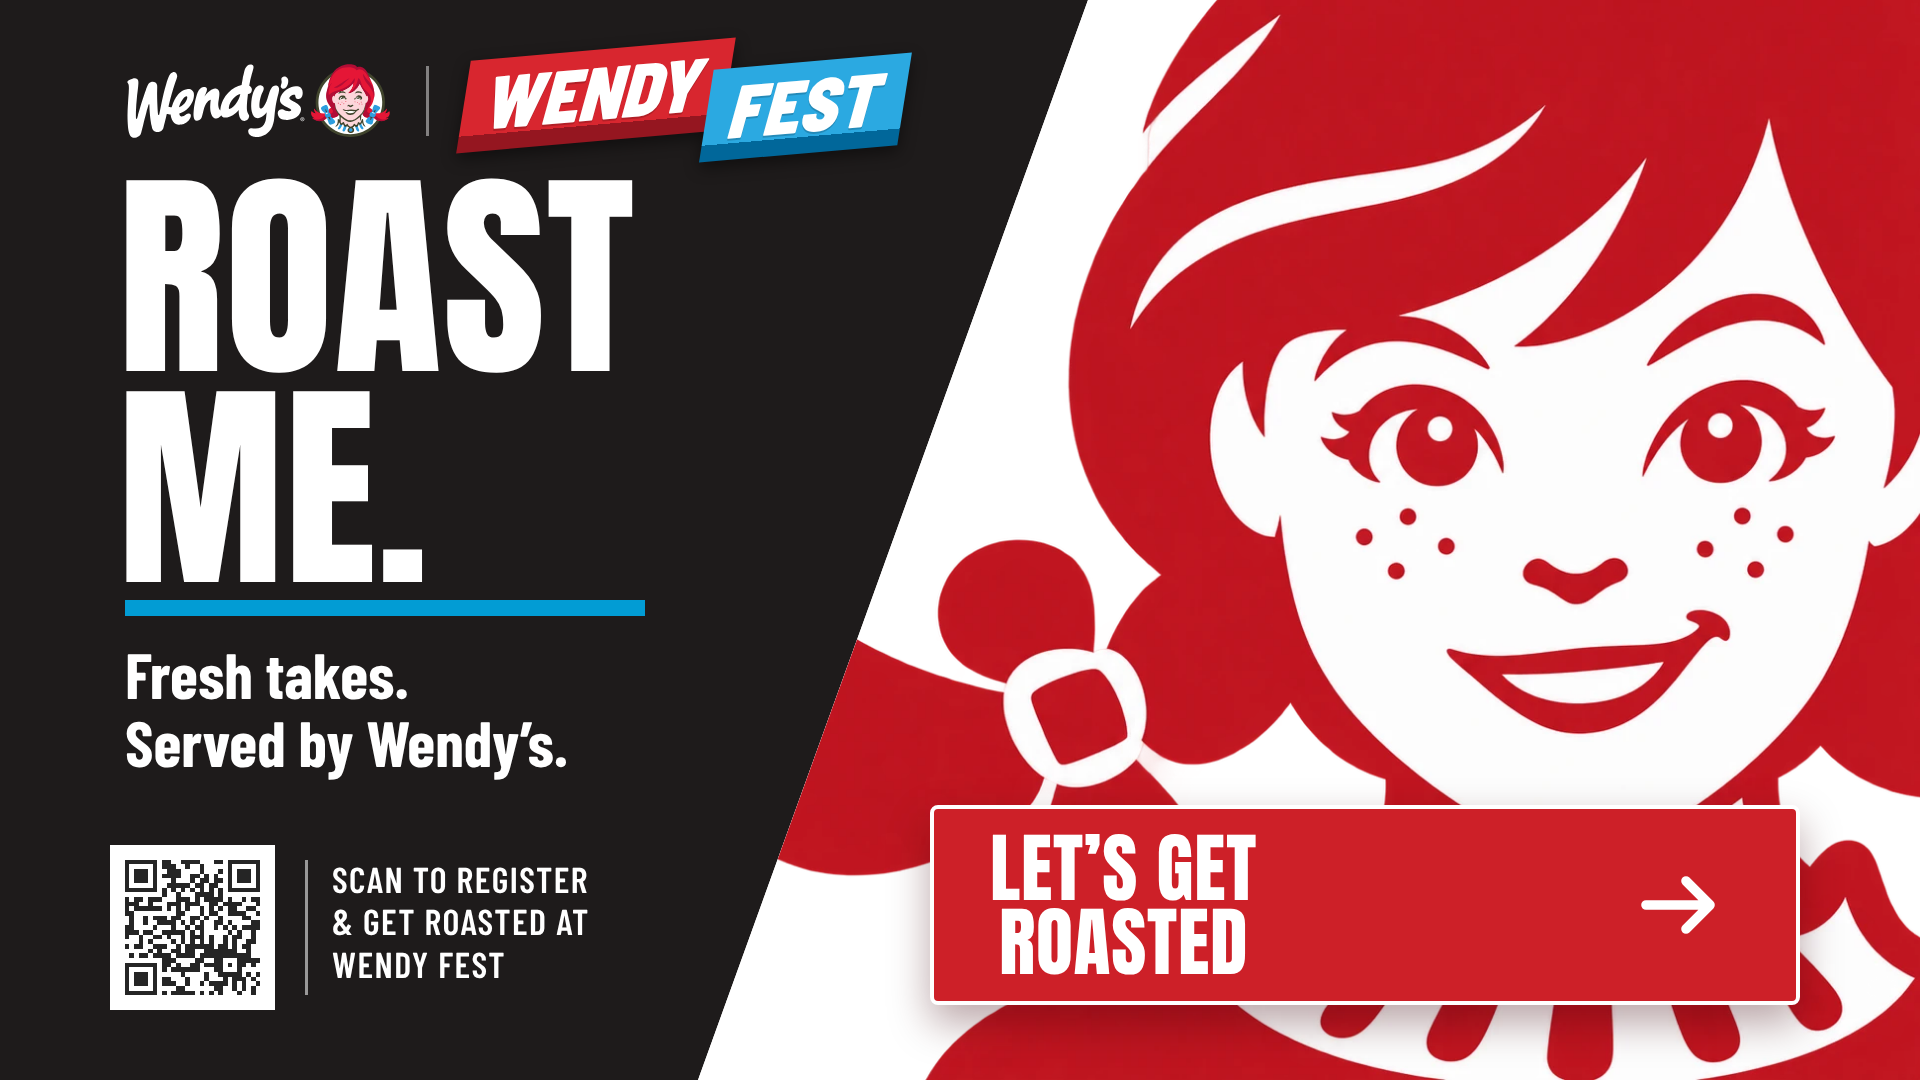
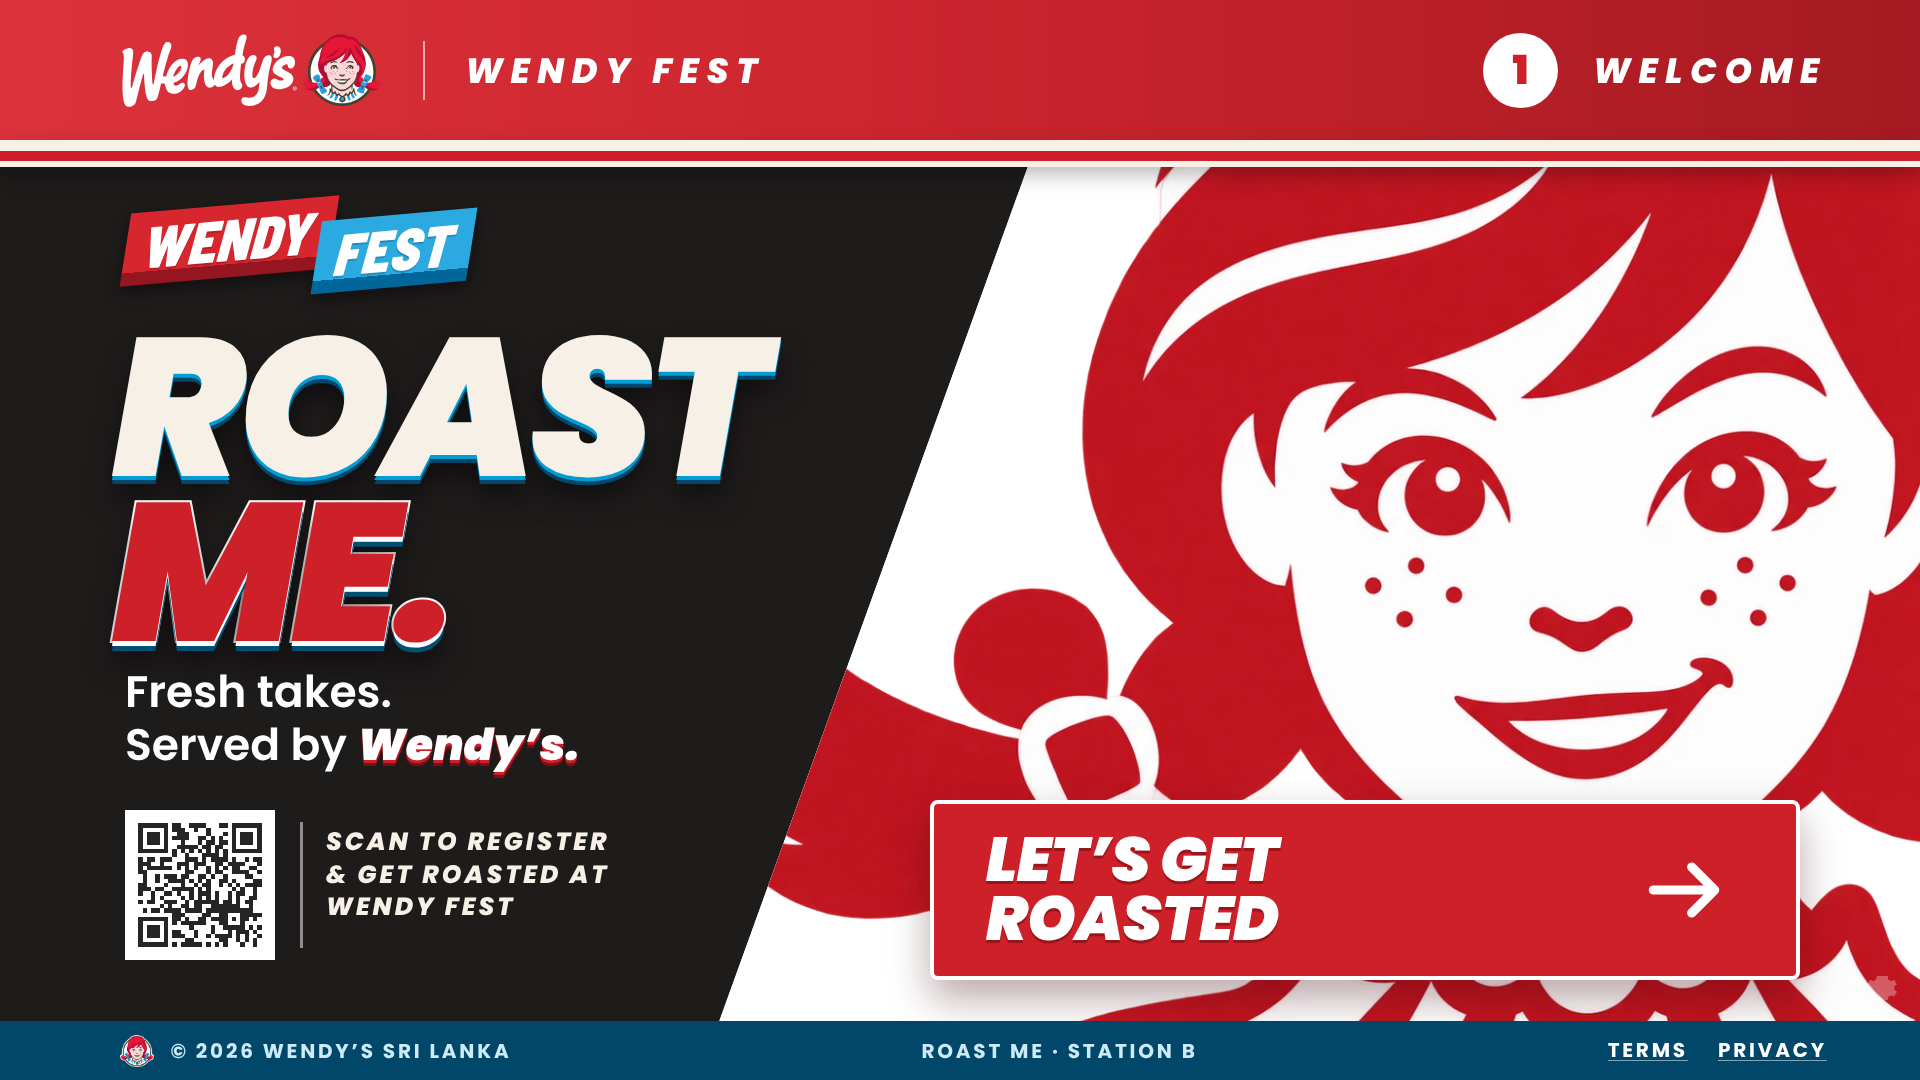
Roast Me welcome: Scream & Win header, stripe and footer; ROAST ME. in Scream & Win heavy italic 3D lettering; lockup moved into content
Claude-Session: https://claude.ai/code/session_015MHPvZ3kkn8jw5YatKY7r4

diff --git a/public/kiosk/roast.html b/public/kiosk/roast.html
@@ -23,43 +23,45 @@
   .rtabs button.on { background: var(--red); opacity: 1; }
   .cooking-line { font-size: 3.2vmin; font-weight: 600; min-height: 5vmin; }
   .ghost-wendy { position: absolute; right: -4vmin; bottom: -10vmin; width: 62vmin; opacity: .06; pointer-events: none; }
-  /* ===== Welcome screen (approved Roast Wall design, 1920x1080 canvas) ===== */
+  /* ===== Welcome screen: Roast Wall layout + Scream & Win header, footer and lettering (1920x1080 canvas) ===== */
   :root { --p:min(calc(100vw / 1920), calc(100vh / 1080)); }
-
-#s-idle { --red:#CD2028; --ink:#1E1B1B; --blue:#029CD4; }
-#s-idle.on { display:grid; place-items:center; padding:0; background:#151313; z-index:3; }
-#s-idle .s { flex:none; }
-#s-idle .s { position:relative; width:calc(1920 * var(--p)); height:calc(1080 * var(--p)); overflow:hidden; background:var(--ink); color:#fff; }
-#s-idle .s > * { position:absolute; }
-#s-idle .panel { inset:0; background:linear-gradient(170deg, #D92530 0%, #CD2028 50%, #B81C24 100%); clip-path:polygon(calc(1130 * var(--p)) 0, calc(1920 * var(--p)) 0, calc(1920 * var(--p)) calc(1080 * var(--p)), calc(740 * var(--p)) calc(1080 * var(--p))); }
-#s-idle .band { inset:0; background:#fff; clip-path:polygon(calc(1088 * var(--p)) 0, calc(1130 * var(--p)) 0, calc(740 * var(--p)) calc(1080 * var(--p)), calc(698 * var(--p)) calc(1080 * var(--p))); }
-#s-idle .art { inset:0; background:#FFFFFF; clip-path:polygon(calc(1088 * var(--p)) 0, calc(1920 * var(--p)) 0, calc(1920 * var(--p)) calc(1080 * var(--p)), calc(698 * var(--p)) calc(1080 * var(--p))); }
-#s-idle .art img { position:absolute; right:0; bottom:0; width:calc(1240 * var(--p)); height:calc(1240 * var(--p)); object-fit:cover; }
-#s-idle .art .ph { display:none;  position:absolute; right:calc(60 * var(--p)); top:calc(60 * var(--p)); width:calc(860 * var(--p)); height:calc(700 * var(--p)); border:calc(4 * var(--p)) dashed rgba(255,255,255,.55); border-radius:calc(24 * var(--p)); display:grid; place-items:center; text-align:center; font:700 calc(34 * var(--p))/1.35 'Barlow Condensed', sans-serif; letter-spacing:.06em; text-transform:uppercase; color:rgba(255,255,255,.85); }
-#s-idle .logo { left:calc(125 * var(--p)); top:calc(50 * var(--p)); display:flex; align-items:center; gap:calc(34 * var(--p)); }
-#s-idle .logo img { height:calc(78 * var(--p)); } .logo i { width:calc(3 * var(--p)); height:calc(70 * var(--p)); background:rgba(255,255,255,.45); }
-#s-idle .wf { display:inline-flex; align-items:flex-start; filter:drop-shadow(0 calc(6 * var(--p)) calc(8 * var(--p)) rgba(0,0,0,.45)); }
-#s-idle .wf .w1, .wf .w2 { display:inline-block; font:italic 900 calc(74 * var(--p))/.9 'Barlow Semi Condensed', 'Barlow Condensed', sans-serif; text-transform:uppercase; letter-spacing:.005em; color:#fff; text-shadow:0 calc(2 * var(--p)) 0 rgba(0,0,0,.18); position:relative; }
-#s-idle .wf .w1 { padding:calc(8 * var(--p)) calc(26 * var(--p)) calc(16 * var(--p)) calc(22 * var(--p)); background:linear-gradient(180deg, #D8262F 0 82%, #951620 82%); transform:rotate(-5deg) skewX(-14deg); z-index:1; }
-#s-idle .wf .w2 { padding:calc(8 * var(--p)) calc(24 * var(--p)) calc(16 * var(--p)) calc(24 * var(--p)); margin:calc(12 * var(--p)) 0 0 calc(-22 * var(--p)); background:linear-gradient(180deg, #2BA9E1 0 82%, #01679A 82%); transform:rotate(-5deg) skewX(-14deg); z-index:2; }
-#s-idle .wf .w1 > span, .wf .w2 > span { display:inline-block; }
-#s-idle .title { left:calc(118 * var(--p)); top:calc(172 * var(--p)); font-family:Anton, Impact, sans-serif; font-size:calc(222 * var(--p)); line-height:.95; text-transform:uppercase; letter-spacing:.005em; }
-#s-idle .bar { left:calc(125 * var(--p)); top:calc(600 * var(--p)); width:calc(520 * var(--p)); height:calc(16 * var(--p)); background:var(--blue); }
-#s-idle .sub { left:calc(125 * var(--p)); top:calc(640 * var(--p)); font:700 calc(64 * var(--p))/1.06 'Barlow Condensed', sans-serif; }
-#s-idle .qr { left:calc(110 * var(--p)); top:calc(845 * var(--p)); width:calc(165 * var(--p)); height:calc(165 * var(--p)); background:#fff; padding:calc(10 * var(--p)); box-sizing:border-box; } .qr img { width:100%; height:100%; display:block; }
-#s-idle .qdiv { left:calc(305 * var(--p)); top:calc(860 * var(--p)); width:calc(3 * var(--p)); height:calc(135 * var(--p)); background:rgba(255,255,255,.55); }
-#s-idle .qtxt { left:calc(332 * var(--p)); top:calc(858 * var(--p)); font:600 calc(36 * var(--p))/1.18 'Barlow Condensed', sans-serif; letter-spacing:.04em; text-transform:uppercase; }
-#s-idle .cta { left:calc(930 * var(--p)); top:calc(805 * var(--p)); width:calc(870 * var(--p)); height:calc(200 * var(--p)); border:calc(4 * var(--p)) solid #fff; border-radius:calc(8 * var(--p)); background:var(--red); box-sizing:border-box; display:flex; align-items:center; justify-content:space-between; padding:0 calc(70 * var(--p)) 0 calc(56 * var(--p)); box-shadow:0 calc(18 * var(--p)) calc(40 * var(--p)) rgba(60,0,8,.35); }
-#s-idle .cta b { font:400 calc(76 * var(--p))/.98 Anton, Impact, sans-serif; text-transform:uppercase; letter-spacing:.01em; }
-#s-idle .cta svg { width:calc(96 * var(--p)); height:calc(96 * var(--p)); }
-
-#s-idle .qr { border-radius:0; box-shadow:none; border:0; }
-#s-idle .cta { cursor:pointer; color:#fff; font:inherit; transition:transform .12s; }
-#s-idle .cta:active { transform:translateY(calc(4 * var(--p))); }
-#s-idle .cta { animation:ctaPulse 2.4s ease-in-out infinite; }
-@keyframes ctaPulse { 50% { box-shadow:0 calc(18 * var(--p)) calc(40 * var(--p)) rgba(60,0,8,.35), 0 0 0 calc(10 * var(--p)) rgba(255,255,255,.18); } }
-.stage:has(#s-idle.on) > .k-logo, .stage:has(#s-idle.on) > .k-cameo, .stage:has(#s-idle.on) > .k-foot { display:none; }
-
+  #s-idle { --red:#CD2028; --ink:#1E1B1B; --blue:#029CD4; }
+  #s-idle.on { display:grid; place-items:center; padding:0; background:#151313; z-index:3; }
+  #s-idle .s { position:relative; flex:none; width:calc(1920 * var(--p)); height:calc(1080 * var(--p)); overflow:hidden; background:var(--ink); color:#fff; font-family:Poppins, sans-serif; }
+  #s-idle .s > * { position:absolute; }
+  #s-idle .panel { inset:0; background:linear-gradient(170deg, #D92530 0%, #CD2028 50%, #B81C24 100%); clip-path:polygon(calc(1130 * var(--p)) 0, calc(1920 * var(--p)) 0, calc(1920 * var(--p)) calc(1080 * var(--p)), calc(740 * var(--p)) calc(1080 * var(--p))); }
+  #s-idle .band { inset:0; background:#fff; clip-path:polygon(calc(1088 * var(--p)) 0, calc(1130 * var(--p)) 0, calc(740 * var(--p)) calc(1080 * var(--p)), calc(698 * var(--p)) calc(1080 * var(--p))); }
+  #s-idle .art { inset:0; background:#fff; clip-path:polygon(calc(1088 * var(--p)) 0, calc(1920 * var(--p)) 0, calc(1920 * var(--p)) calc(1080 * var(--p)), calc(698 * var(--p)) calc(1080 * var(--p))); }
+  #s-idle .art img { position:absolute; right:0; bottom:calc(-40 * var(--p)); width:calc(1220 * var(--p)); height:calc(1220 * var(--p)); object-fit:cover; }
+  /* header, stripe and footer: same as Scream & Win */
+  #s-idle .hd { left:0; right:0; top:0; height:calc(140 * var(--p)); display:flex; align-items:center; justify-content:space-between; padding:0 calc(93 * var(--p)) 0 calc(120 * var(--p)); background:linear-gradient(90deg, #DB323B 0%, #CF2730 40%, #BD2028 70%, #A51A22 100%); box-shadow:0 calc(8 * var(--p)) calc(26 * var(--p)) rgba(0,0,0,.35); z-index:5; }
+  #s-idle .hd .brand { display:flex; align-items:center; gap:calc(40 * var(--p)); } #s-idle .hd .brand img { height:calc(77 * var(--p)); } #s-idle .hd .brand i { width:calc(2 * var(--p)); height:calc(59 * var(--p)); background:rgba(255,255,255,.6); }
+  #s-idle .hd .brand b, #s-idle .hd .stp { font:italic 800 calc(35 * var(--p))/1 Poppins, sans-serif; letter-spacing:.22em; text-transform:uppercase; color:#fff; }
+  #s-idle .hd .stp { display:flex; align-items:center; gap:calc(35 * var(--p)); } #s-idle .hd .stp i { width:calc(75 * var(--p)); height:calc(75 * var(--p)); border-radius:50%; background:#fff; color:var(--red); display:grid; place-items:center; font:900 calc(40 * var(--p))/1 Poppins; font-style:normal; letter-spacing:0; }
+  #s-idle .strp { left:0; right:0; top:calc(140 * var(--p)); height:calc(27 * var(--p)); background:linear-gradient(180deg, #F6F0E6 0 calc(11 * var(--p)), #CD2028 calc(11 * var(--p)) calc(21 * var(--p)), #F6F0E6 calc(21 * var(--p)) calc(27 * var(--p))); z-index:5; box-shadow:0 calc(8 * var(--p)) calc(20 * var(--p)) rgba(0,0,0,.25); }
+  #s-idle .ft { left:0; right:0; bottom:0; height:calc(59 * var(--p)); display:flex; justify-content:space-between; align-items:center; padding:0 calc(93 * var(--p)) 0 calc(120 * var(--p)); background:#01476A; color:#CDEBF7; font:700 calc(20 * var(--p))/1 Poppins; letter-spacing:.14em; text-transform:uppercase; z-index:5; }
+  #s-idle .ft .c { display:flex; align-items:center; gap:calc(16 * var(--p)); } #s-idle .ft .c img { height:calc(32 * var(--p)); } #s-idle .ft .lk { display:flex; gap:calc(30 * var(--p)); } #s-idle .ft a { color:#fff; border-bottom:1px solid rgba(255,255,255,.5); }
+  /* WENDY FEST lockup (approved) */
+  #s-idle .lock { left:calc(125 * var(--p)); top:calc(205 * var(--p)); }
+  #s-idle .wf { display:inline-flex; align-items:flex-start; filter:drop-shadow(0 calc(6 * var(--p)) calc(8 * var(--p)) rgba(0,0,0,.45)); }
+  #s-idle .wf .w1, #s-idle .wf .w2 { display:inline-block; font:italic 900 calc(58 * var(--p))/.9 'Barlow Semi Condensed', 'Barlow Condensed', sans-serif; text-transform:uppercase; letter-spacing:.005em; color:#fff; text-shadow:0 calc(2 * var(--p)) 0 rgba(0,0,0,.18); position:relative; }
+  #s-idle .wf .w1 { padding:calc(7 * var(--p)) calc(21 * var(--p)) calc(13 * var(--p)) calc(18 * var(--p)); background:linear-gradient(180deg, #D8262F 0 82%, #951620 82%); transform:rotate(-5deg) skewX(-14deg); z-index:1; }
+  #s-idle .wf .w2 { padding:calc(7 * var(--p)) calc(19 * var(--p)) calc(13 * var(--p)) calc(19 * var(--p)); margin:calc(10 * var(--p)) 0 0 calc(-18 * var(--p)); background:linear-gradient(180deg, #2BA9E1 0 82%, #01679A 82%); transform:rotate(-5deg) skewX(-14deg); z-index:2; }
+  /* ROAST ME. in Scream & Win lettering: heavy italic with 3D extrusion */
+  #s-idle .title { left:calc(112 * var(--p)); top:calc(330 * var(--p)); font:italic 900 calc(196 * var(--p))/.8 Poppins, sans-serif; text-transform:uppercase; letter-spacing:-.035em; }
+  #s-idle .title span { display:block; }
+  #s-idle .title .l1 { color:#F6F0E6; text-shadow:0 calc(4 * var(--p)) 0 #029CD4, 0 calc(8 * var(--p)) 0 #01476A, 0 calc(20 * var(--p)) calc(28 * var(--p)) rgba(0,0,0,.5); }
+  #s-idle .title .l2 { color:#CD2028; -webkit-text-stroke:calc(4 * var(--p)) #fff; paint-order:stroke fill; text-shadow:0 calc(5 * var(--p)) 0 #fff, 0 calc(10 * var(--p)) 0 #014F72, 0 calc(22 * var(--p)) calc(28 * var(--p)) rgba(0,0,0,.5); margin-top:calc(8 * var(--p)); }
+  #s-idle .sub { left:calc(125 * var(--p)); top:calc(666 * var(--p)); font:600 calc(44 * var(--p))/1.2 Poppins, sans-serif; color:#fff; }
+  #s-idle .sub b { font-weight:900; font-style:italic; color:#fff; text-shadow:0 calc(3 * var(--p)) 0 #CD2028, 0 calc(6 * var(--p)) 0 #7A0F16; }
+  #s-idle .qr { left:calc(125 * var(--p)); top:calc(810 * var(--p)); width:calc(150 * var(--p)); height:calc(150 * var(--p)); background:#fff; padding:calc(9 * var(--p)); box-sizing:border-box; border-radius:0; box-shadow:none; border:0; } #s-idle .qr img { width:100%; height:100%; display:block; }
+  #s-idle .qdiv { left:calc(300 * var(--p)); top:calc(822 * var(--p)); width:calc(3 * var(--p)); height:calc(126 * var(--p)); background:rgba(255,255,255,.5); }
+  #s-idle .qtxt { left:calc(326 * var(--p)); top:calc(826 * var(--p)); font:italic 800 calc(25 * var(--p))/1.3 Poppins, sans-serif; letter-spacing:.12em; text-transform:uppercase; color:#F6F0E6; }
+  #s-idle .cta { left:calc(930 * var(--p)); top:calc(800 * var(--p)); width:calc(870 * var(--p)); height:calc(180 * var(--p)); border:calc(4 * var(--p)) solid #fff; border-radius:calc(8 * var(--p)); background:var(--red); box-sizing:border-box; display:flex; align-items:center; justify-content:space-between; padding:0 calc(66 * var(--p)) 0 calc(52 * var(--p)); box-shadow:0 calc(18 * var(--p)) calc(40 * var(--p)) rgba(60,0,8,.35); cursor:pointer; color:#fff; font:inherit; transition:transform .12s; animation:ctaPulse 2.4s ease-in-out infinite; z-index:4; }
+  #s-idle .cta b { font:italic 900 calc(62 * var(--p))/.95 Poppins, sans-serif; text-transform:uppercase; letter-spacing:-.01em; text-align:left; text-shadow:0 calc(3 * var(--p)) 0 rgba(90,8,14,.45); }
+  #s-idle .cta svg { width:calc(92 * var(--p)); height:calc(92 * var(--p)); } #s-idle .cta:active { transform:translateY(calc(4 * var(--p))); }
+  @keyframes ctaPulse { 50% { box-shadow:0 calc(18 * var(--p)) calc(40 * var(--p)) rgba(60,0,8,.35), 0 0 0 calc(10 * var(--p)) rgba(255,255,255,.18); } }
+  .stage:has(#s-idle.on) > .k-logo, .stage:has(#s-idle.on) > .k-cameo, .stage:has(#s-idle.on) > .k-foot { display:none; }
 </style>
 </head>
 <body class="kiosk on-red freckles roast-kiosk">
@@ -76,17 +78,19 @@
 
   <section class="screen on" id="s-idle">
     <div class="s">
-  <div class="panel"></div><div class="band"></div>
-  <div class="art"><img src="/assets/roast-wendy.png" alt="" onerror="this.remove()"></div>
-  <div class="logo"><img src="/assets/wendys-horiz-white.svg" alt="Wendy's"><i></i><span class="wf"><span class="w1">Wendy</span><span class="w2">Fest</span></span></div>
-  <div class="title">Roast<br>Me.</div>
-  <i class="bar"></i>
-  <div class="sub">Fresh takes.<br>Served by Wendy’s.</div>
-  <div class="qr"><img id="qr-reg" alt="QR"></div>
-  <i class="qdiv"></i>
-  <div class="qtxt">Scan to register<br>&amp; get roasted at<br>Wendy Fest</div>
-  <button class="cta" id="start"><b>Let’s get<br>roasted</b><svg viewBox="0 0 24 24" fill="none" stroke="#fff" stroke-width="2.4" stroke-linecap="round" stroke-linejoin="round"><path d="M4 12h16M14 6l6 6-6 6"/></svg></button>
-</div>
+      <div class="panel"></div><div class="band"></div>
+      <div class="art"><img src="/assets/roast-wendy.png" alt="" onerror="this.remove()"></div>
+      <header class="hd"><div class="brand"><img src="/assets/wendys-horiz-white.svg" alt="Wendy's"><i></i><b>Wendy Fest</b></div><div class="stp"><i>1</i><span>Welcome</span></div></header>
+      <div class="strp"></div>
+      <div class="lock"><span class="wf"><span class="w1">Wendy</span><span class="w2">Fest</span></span></div>
+      <div class="title"><span class="l1">Roast</span><span class="l2">Me.</span></div>
+      <div class="sub">Fresh takes.<br>Served by <b>Wendy’s.</b></div>
+      <div class="qr"><img id="qr-reg" alt="QR"></div>
+      <i class="qdiv"></i>
+      <div class="qtxt">Scan to register<br>&amp; get roasted at<br>Wendy Fest</div>
+      <button class="cta" id="start"><b>Let’s get<br>roasted</b><svg viewBox="0 0 24 24" fill="none" stroke="#fff" stroke-width="2.4" stroke-linecap="round" stroke-linejoin="round"><path d="M4 12h16M14 6l6 6-6 6"/></svg></button>
+      <footer class="ft"><span class="c"><img src="/assets/cameo.png" alt="">© 2026 Wendy’s Sri Lanka</span><span>Roast Me · Station B</span><span class="lk"><a>Terms</a><a>Privacy</a></span></footer>
+    </div>
   </section>
 
   <section class="screen" id="s-code" style="place-items:center"><div class="stack center" style="gap:2.4vmin">
